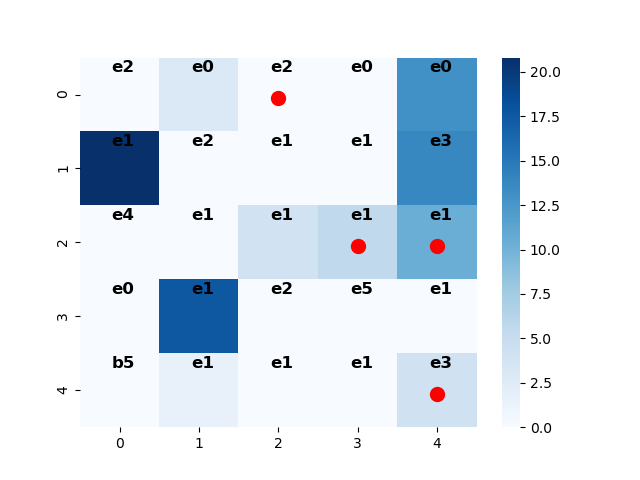
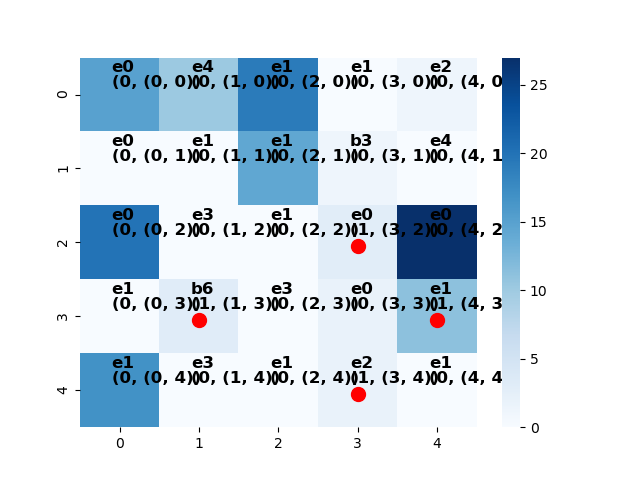
fixed locations of dots in display

diff --git a/classBoard.py b/classBoard.py
@@ -43,8 +43,9 @@ class Board():
                             markerfacecolor="red")
                 #annotating cells (phase, numHits)
                 #(ex: B5 means breakthrough phase, hit 5 times)
-                hm.annotate(f"{numSciHits}{cell.phase.name[0]}{cell.numHits}", xy=(i, j), xytext=(i+0.40, j+0.2),
+                hm.annotate(f"{cell.phase.name[0]}{cell.numHits}", xy = (j, i), xytext=(j+0.40, i+0.2),
                     fontsize=12, fontweight='bold')
+                hm.annotate(f"{numSciHits, (j, i)}", xy = (j,i), xytext = (i, j+0.4), fontsize=12, fontweight='bold')
         
         plt.savefig(f'testplot{numRun}.png')
         plt.show()

diff --git a/Run.py b/Run.py
@@ -42,6 +42,7 @@ def batchRun(board, numScientists, numRuns):
         cellsHit = {}
         for scientist in dept:
             location = scientist.chooseCell(board)
+            print(scientist, location)
             if location in cellsHit.keys():
                 cellsHit[location].append(scientist)
             else:
@@ -60,5 +61,5 @@ def batchRun(board, numScientists, numRuns):
             save_all=True, duration=500, loop=1)
     return
 
-board = Board(5, 5)
+board = Board(2, 2)
 batchRun(board, 4, 10)
